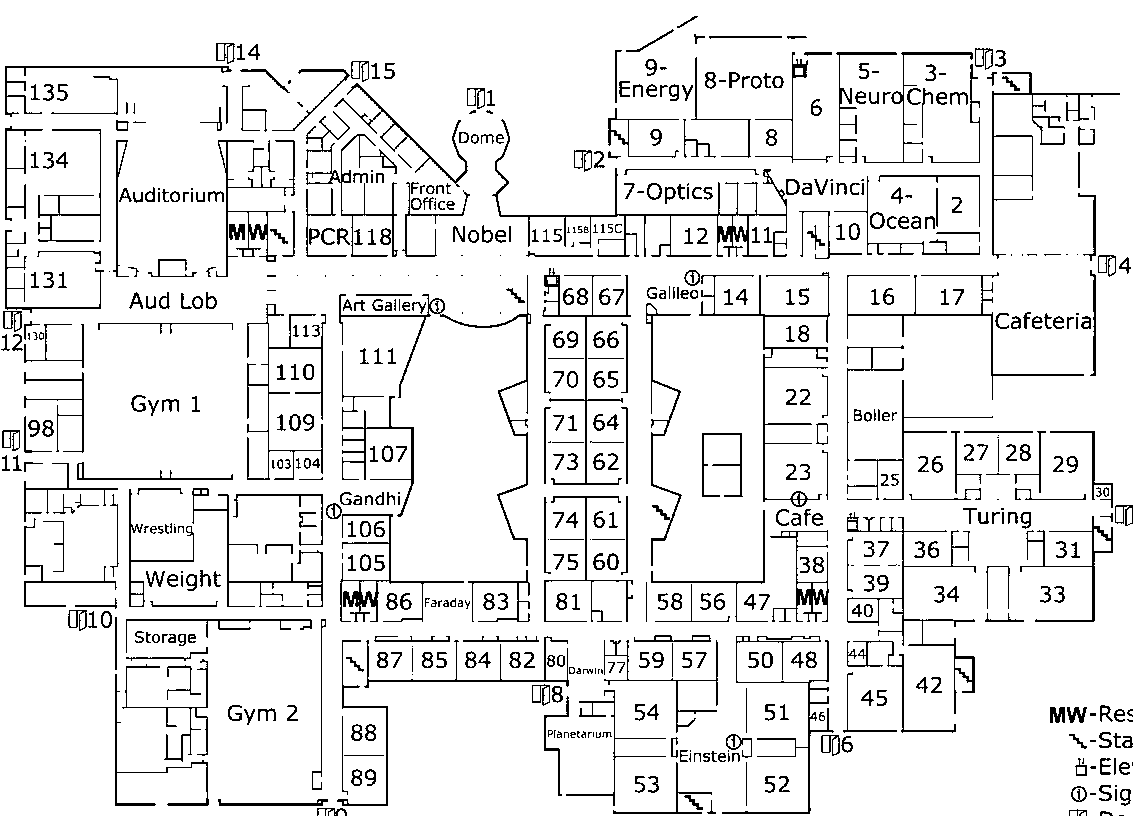
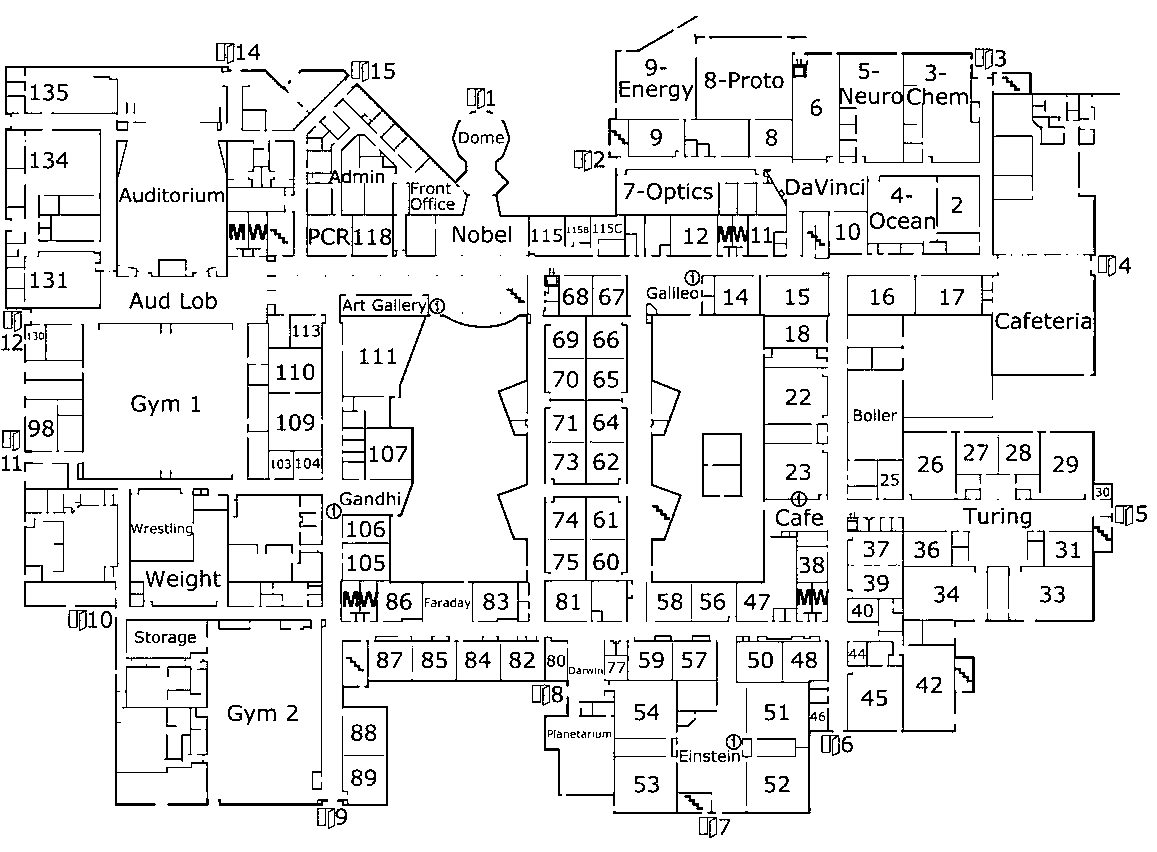
Fix pipe, change b/w detection

Changed region(s): [[0.0, 0.0, 1.0, 1.0], [0.9267, 0.8578, 1.0, 1.0]]

diff --git a/recognize_characters.py b/recognize_characters.py
@@ -13,6 +13,9 @@ from random import random
 
 start_time = time.perf_counter()
 
+USING_TESSERACT = False
+SHOW_IMAGES = False
+
 CONFIDENCE_LEVEL = 69
 UPPER_CONFIDENCE_LEVEL = 90
 IMAGE_SAVE_PATH = "images/"
@@ -20,13 +23,11 @@ FILE_NAME = IMAGE_SAVE_PATH + "practice_map.jpg"
 DIST_BETWEEN_LETTERS = 15
 DIST_FOR_SPACE = 4
 Y_THRESHOLD = 6
+BW_THRESHOLD = 126 # Values less than this will become black, 150
 RESIZE = 2
 PADDING = 3
 RMSE_THRESHOLD = 0.035
 SYMBOLS = ["door"]
-
-USING_TESSERACT = False
-SHOW_IMAGES = False
 
 sys.setrecursionlimit(10000) # We don't talk about this line
 
@@ -76,6 +77,7 @@ def flood(x, y, found, min_x, max_x, min_y, max_y):
 
     return found, min_x, max_x, min_y, max_y
 
+
 def draw_square(pixels, min_x, max_x, min_y, max_y, rgb):
     """
     Draws a square by calling draw_line() for each side, because too lazy to integrate :D
@@ -109,7 +111,7 @@ def image_to_black_and_white(pixels):
     for x in range(WIDTH):
         for y in range(HEIGHT):
             r, g, b = pixels[x, y]
-            if 0.2126*r + 0.7152*g + 0.0722*b < 150: # Check if pixel is relatively dark
+            if 0.2126*r + 0.7152*g + 0.0722*b < BW_THRESHOLD: # Check if pixel is relatively dark
                 pixels[x, y] = (0, 0, 0)
             else:
                 pixels[x, y] = (255, 255, 255)
@@ -221,7 +223,7 @@ def predict_char(x1, x2, y1, y2, single_char = True, has_spaces = False, symbols
     # display_image = display_image.crop((max(0, x1 - 50),  max(0, y1 - 50), min(WIDTH, x2 + 50), min(HEIGHT, y2 + 50)))
     # display_image = display_image.resize((display_image.size[0] * RESIZE, display_image.size[1] * RESIZE), Image.Resampling.LANCZOS)
     # cv_image = np.array(display_image)
-    # cv.imshow("Window", cv_image)
+    # cv.imshow("Looking at image:", cv_image)
     # cv.waitKey(2000)
     # cv.destroyAllWindows()
 
@@ -354,13 +356,14 @@ def process_image(boxes, pixels):
         # print("Starting to look at new word...")
 
         used_boxes, detected_name, has_spaces, symbols = generate_name(box, used_boxes, detected_name = [], has_spaces = False, symbols = {})
-        label = ""
 
         # print("After generated named, detected_name:", detected_name)
         # print("After generated name symbols:", symbols)
 
         if len(detected_name) == 1 and symbols: # Is a singular symbol
-            print("Symbol:", list(symbols.values())[0][0])
+            s = list(symbols.values())[0][0]
+            print("Symbol:", s)
+            room_names.append(s)
             continue
 
         # Use full word
@@ -384,9 +387,14 @@ def process_image(boxes, pixels):
 
             room_names.append(full_word1)
             room_names.append(full_word2)
-            continue
 
-            # TODO: Remove box here
+            for i, b in enumerate(detected_name):
+                if i != pipe:
+                    remove_box(pixels, b[0], b[1], b[2], b[3])
+
+            continue
+        if not full_word:
+            continue
 
         if confidence >= CONFIDENCE_LEVEL:
             if len(full_word) == 1 and confidence < UPPER_CONFIDENCE_LEVEL: # Mis-identified character
@@ -411,7 +419,19 @@ def process_image(boxes, pixels):
 
         elif len(detected_name) > 1: # Go individually
 
-            label = "".join([pred[0] if (pred := predict_char(b[0], b[1], b[2], b[3]))[1] >= CONFIDENCE_LEVEL else "*" for b in detected_name])
+            label = []
+
+            for b in detected_name:
+                if b in symbols:
+                    label.append(symbols[b][0])
+                elif (pred := predict_char(b[0], b[1], b[2], b[3]))[1] >= CONFIDENCE_LEVEL:
+                    label.append(pred[0])
+                else:
+                    label.append("*")
+
+            label = "".join(label)
+
+            # label = "".join([pred[0] if (pred := predict_char(b[0], b[1], b[2], b[3]))[1] >= CONFIDENCE_LEVEL else "*" for b in detected_name])
 
             for b in detected_name:
                 remove_box(pixels, b[0], b[1], b[2], b[3])
@@ -460,8 +480,6 @@ def process_image(boxes, pixels):
 
                 if confidence == 89.0:
                     text += " But 100"
-
-            text += f" {has_spaces}"[:2]
             
             image3 = Image.open(FILE_NAME)
             pixels3 = image3.load()
@@ -475,7 +493,7 @@ def process_image(boxes, pixels):
             
             ImageDraw.Draw(image3).text((x1, y1), text, (255, 0, 0), font = font)
 
-            tk_image = ImageTk.PhotoImage(image3.resize((1000, 600)))
+            tk_image = ImageTk.PhotoImage(image3.resize((1200, 700)))
             image_label.configure(image = tk_image)
             image_label.pack()
             root.update()
@@ -490,7 +508,7 @@ WIDTH, HEIGHT = image.width, image.height
 
 print("Converting to black and white...")
 image_to_black_and_white(pixels)
-# image.save(IMAGE_SAVE_PATH + "black_and_white.png")
+image.save(IMAGE_SAVE_PATH + "black_and_white.png")
 
 	
 print("Drawing boxes...")
